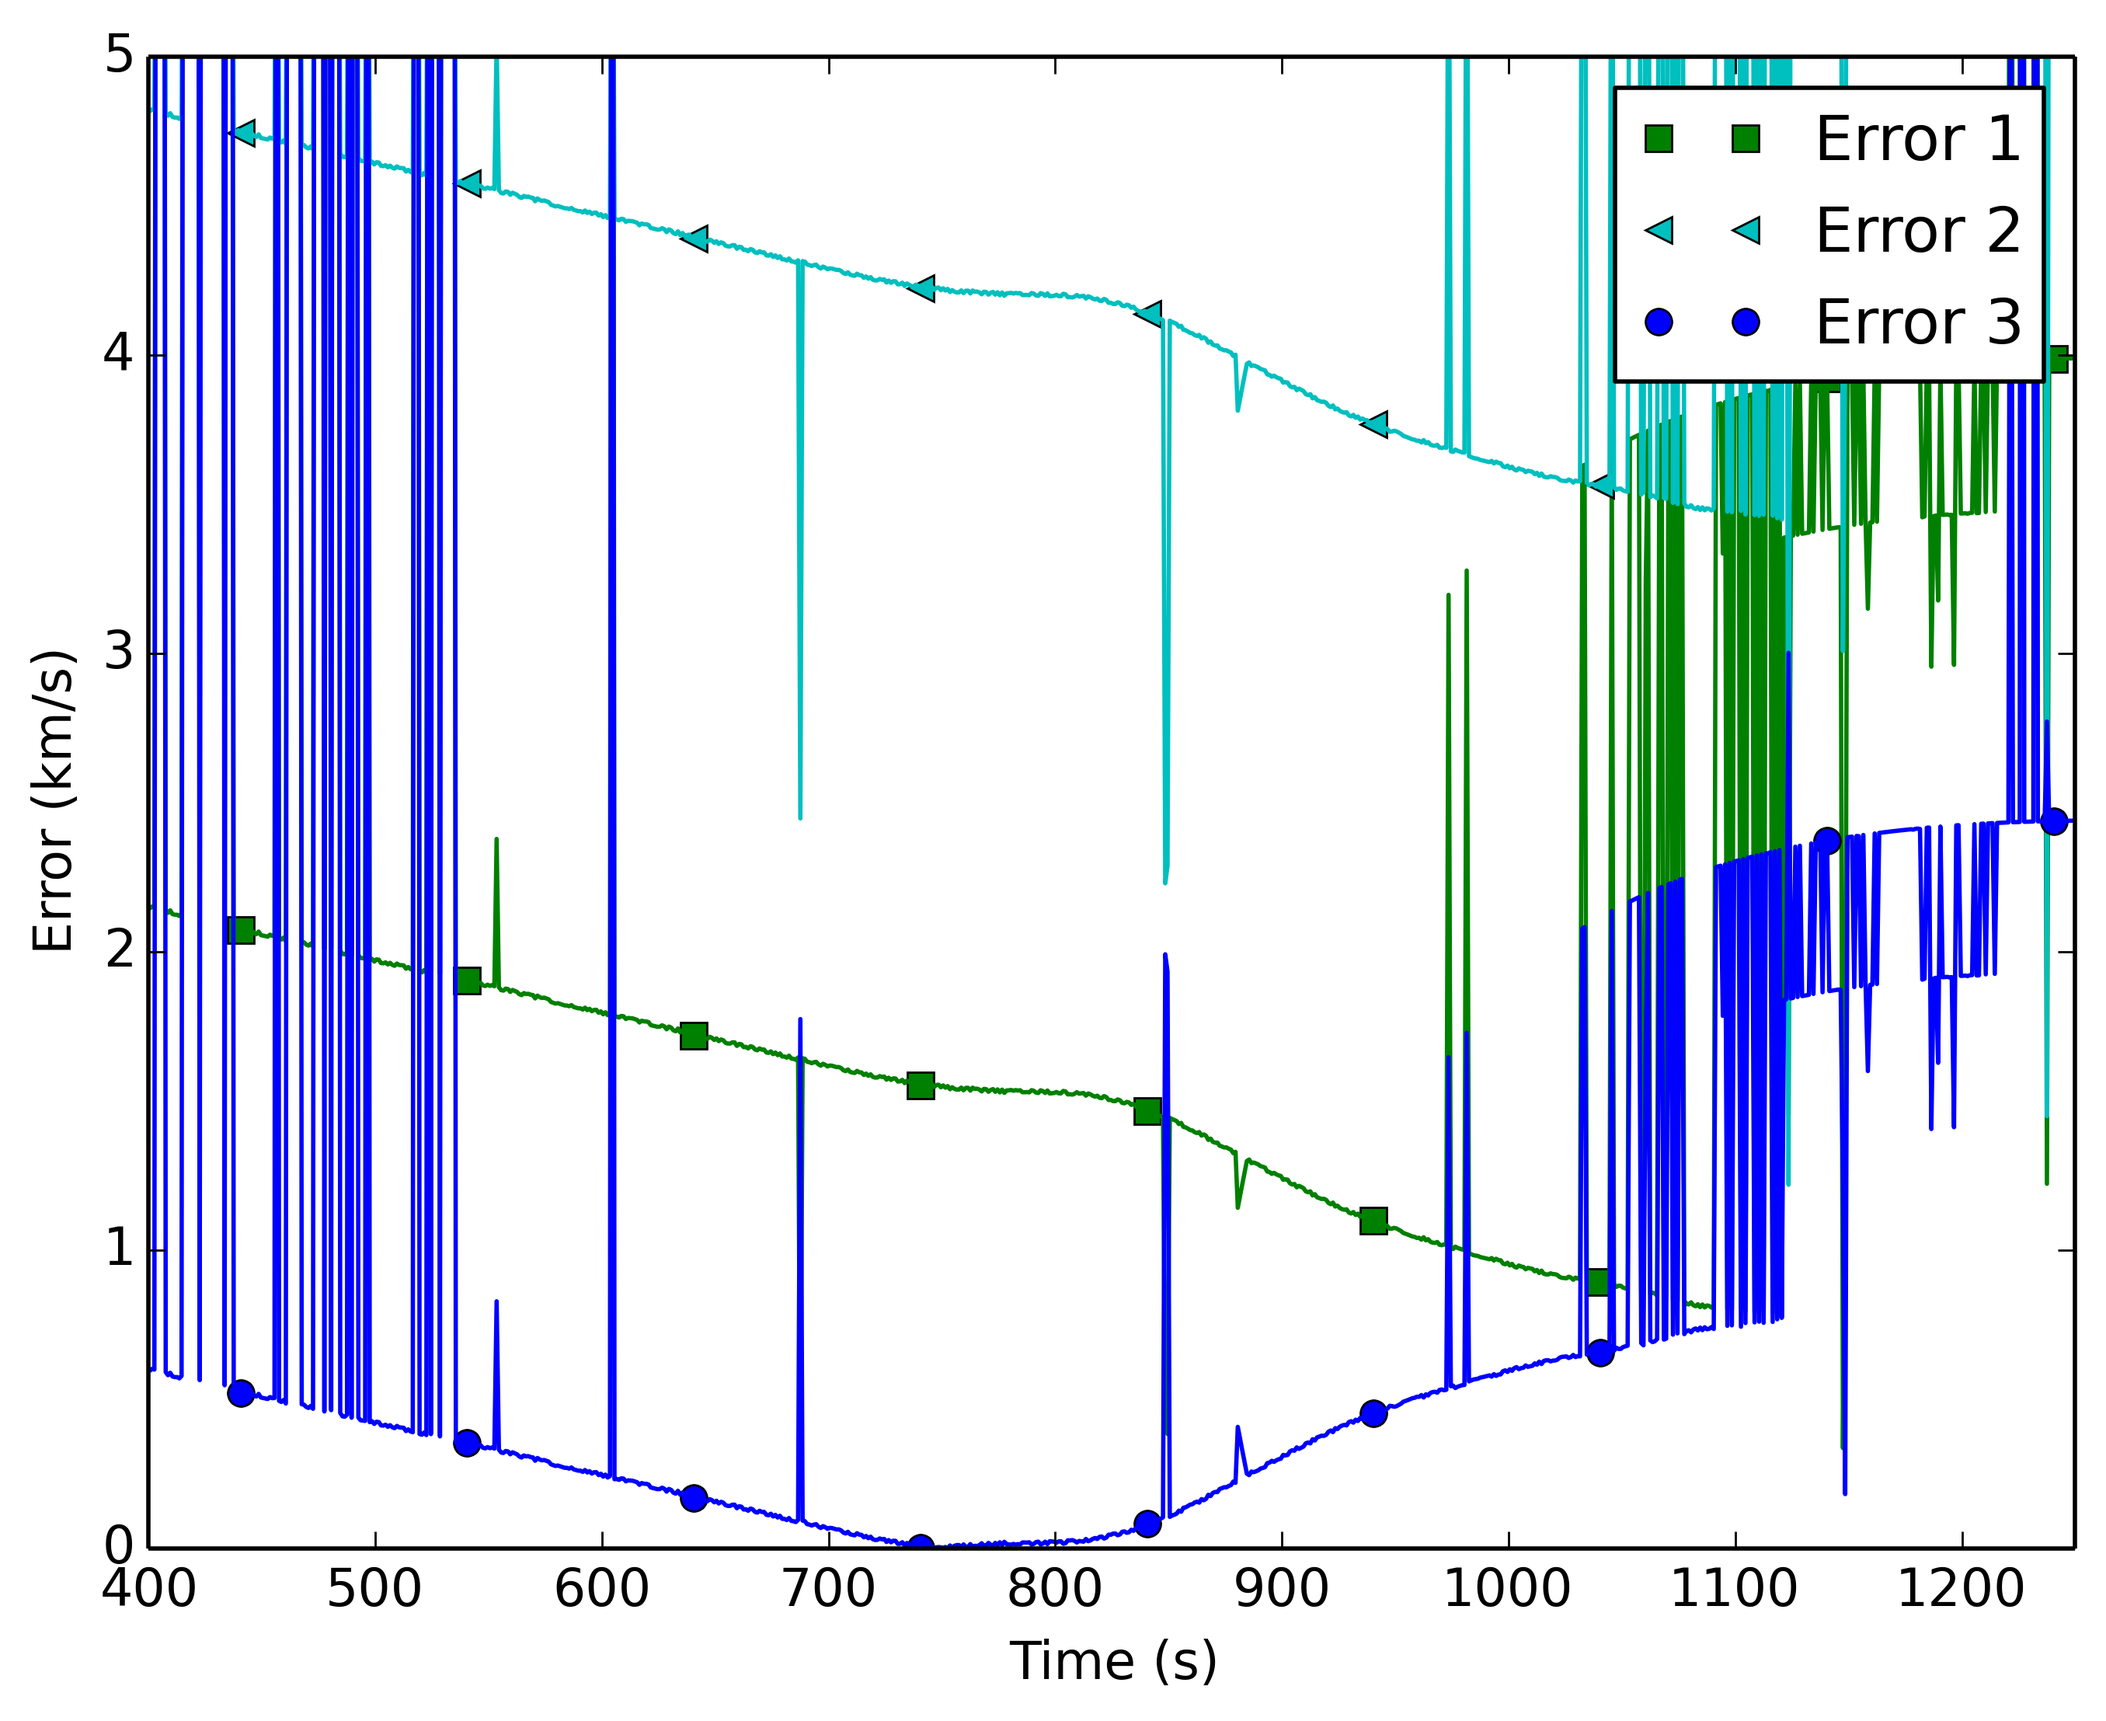
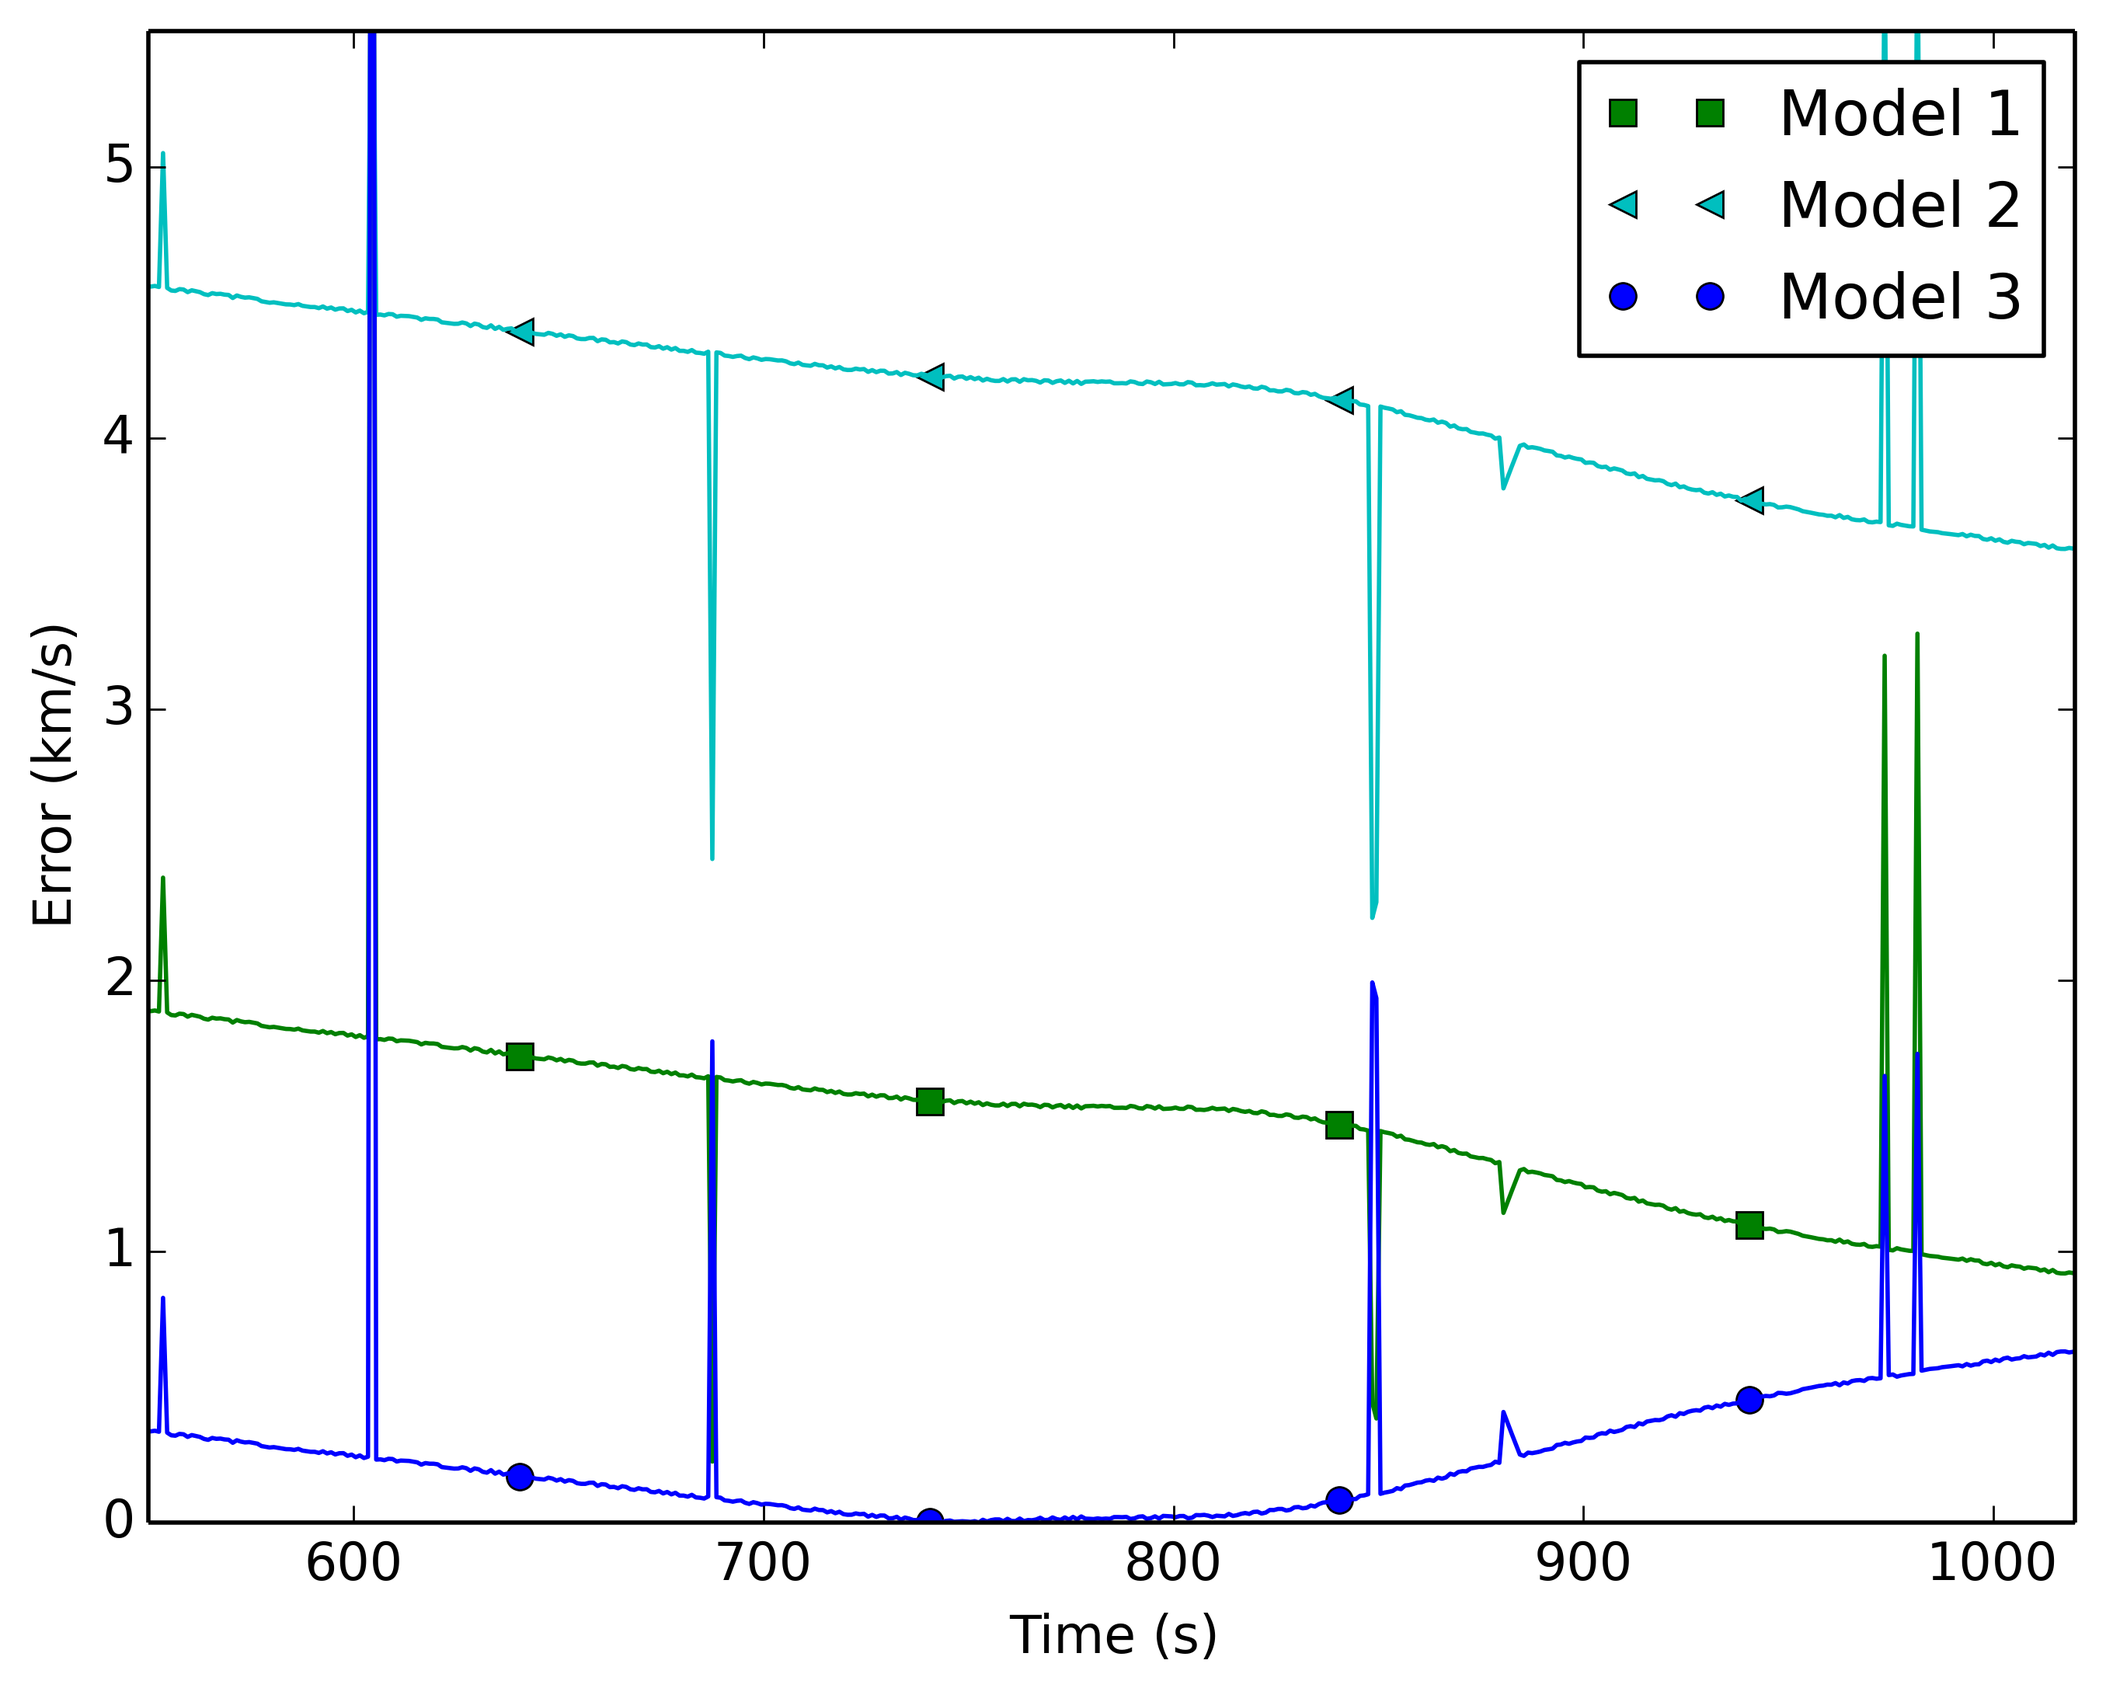
plots changed, rangeRateClass de-duplicated

Changed region(s): [[0.0, 0.0, 0.9915, 0.9349], [0.4338, 0.2181, 0.4958, 0.2493]]

diff --git a/rangeRateClass.py b/rangeRateClass.py
@@ -9,24 +9,10 @@ from tlerangerate import compare,tlerangerate,errorCount
 
 class rangeRate:
 
-
-    def __init__(self, wavFileName, start, end, intervalWidth, intervalStartFrequency, carrierfrequency,listeningfrequency, satelliteVelocity):
-		self.wavFileName = wavFileName
-		self.start = start
-		self.end = end
-		self.intervalWidth = intervalWidth
-		self.intervalStartFrequency = intervalStartFrequency
-		self.carrierfrequency = carrierfrequency
-                self.listeningfrequency = listeningfrequency
-		self.cutOff = 3.0*satelliteVelocity/(3e8)*self.carrierfrequency
-
-		self.wavReader = wavReaderFourierTransformer(self.wavFileName, self.start, self.end, self.intervalWidth, self.intervalStartFrequency, self.cutOff)
-		self.lowfrequency = self.carrierfrequency - self.wavReader.getMaxFourierFrequency()
-
     def doCalculations(self):
-		self.wavReaderCalc()
-		self.maxFrequencyCalc()
-		self.dopplerTrackingCalc()
+        self.wavReaderCalc()
+        self.maxFrequencyCalc()
+        self.dopplerTrackingCalc()
 
     def dopplerTracking(self, maxFrequency, wavReader):
            freq = []
@@ -66,7 +52,6 @@ class rangeRate:
            newrangerate = rangerateconvert(timefreq,newValue)
            self.newtimedeltav2 = [time,newrangerate]
            return timefreq
-           
 
     def __init__(self, wavFileName, start, end, intervalWidth, intervalStartFrequency, carrierfrequency,listeningfrequency, satelliteVelocity):
         self.wavFileName = wavFileName
@@ -81,13 +66,8 @@ class rangeRate:
         self.wavReader = wavReaderFourierTransformer(self.wavFileName, self.start, self.end, self.intervalWidth, self.intervalStartFrequency, self.cutOff)
         self.lowfrequency = self.carrierfrequency - self.wavReader.getMaxFourierFrequency()
 
-    def doCalculations(self):
-        self.wavReaderCalc()
-        self.maxFrequencyCalc()
-        self.dopplerTrackingCalc()
-
-
     def dopplerTracking(self, maxFrequency, wavReader):
+        print("Deze pakt hij")
         freq = []
         for maxfreq in maxFrequency:
             freq.append(maxfreq)    
@@ -149,8 +129,12 @@ class rangeRate:
         for i in range(1,len(ylist)):                      
             dy = (ylist[i]-ylist[i-1])
             slope.append(dy/dx) 
-        lwall = int(divmod(600,dx)[0])
-        rwall = int(divmod(1000,dx)[0])
+        lwall = int(divmod(700,dx)[0])
+        rwall = int(divmod(850,dx)[0])
+        print(np.size(time[1:]))
+        print(np.size(slope))
+        plt.plot(time[1:], slope)
+        plt.show()
         minslope = min(slope[lwall:rwall])
         minslopeindex = slope.index(minslope)
         minslopetime = (minslopeindex*dx)
@@ -182,4 +166,5 @@ if __name__ == "__main__":
     rr = init()
     rr.doCalculations()
     # rr.plot2DWaterfallplotWithMaxFrequencies(mode="save")
-    rr.plotComparison(mode="save")
+    # rr.plotComparison(mode="save")
+    # rr.plotComparison(mode="disp")

diff --git a/tlerangerate.py b/tlerangerate.py
@@ -211,12 +211,12 @@ def compare(exprangerate,newtimedeltav,tletimedeltav, mode="disp"):
     
     plt.xlabel("Time (s)")
     plt.ylabel("Range-Rate (km/s)")
-    plt.xlim(400,1250)
+    plt.xlim(400,1200)
+    plt.ylim(-11, 15)
     plt.legend()
     if mode == "save":
         plt.savefig("img/RangeRate-Time.png", bbox_inches='tight', dpi=400)
 
-    plt.close()
 
     error1temp = errorCount(exprangerate)
     error1 = [abs(error1temp[n]) for n in range(len(error1temp))]
@@ -229,7 +229,7 @@ def compare(exprangerate,newtimedeltav,tletimedeltav, mode="disp"):
     ax2 = fig2.add_subplot(111)
     
     check=exprangerate[0][0]
-    ax2.plot(exprangerate[0][0],error1[0],'gs',label='Error 1')
+    ax2.plot(exprangerate[0][0],error1[0],'gs',label='Model 1')
     for i in range(len(exprangerate[0])):
         if check<=exprangerate[0][i]:
             ax2.plot(exprangerate[0][i],error1[i],'gs')
@@ -237,7 +237,7 @@ def compare(exprangerate,newtimedeltav,tletimedeltav, mode="disp"):
     ax2.plot(exprangerate[0],error1,'g')
     
     check=newtimedeltav[0][0]
-    ax2.plot(newtimedeltav[0][0],error2[0],'c<',label='Error 2')
+    ax2.plot(newtimedeltav[0][0],error2[0],'c<',label='Model 2')
     for i in range(len(newtimedeltav[0])):
         if check<=newtimedeltav[0][i]:
             ax2.plot(newtimedeltav[0][i],error2[i],'c<')
@@ -245,7 +245,7 @@ def compare(exprangerate,newtimedeltav,tletimedeltav, mode="disp"):
     ax2.plot(newtimedeltav[0],error2,'c')
     
     check=tletimedeltav[0][0]
-    ax2.plot(tletimedeltav[0][0],error3[0],'bo',label='Error 3')
+    ax2.plot(tletimedeltav[0][0],error3[0],'bo',label='Model 3')
     for i in range(len(tletimedeltav[0])):
         if check<=tletimedeltav[0][i]:
             ax2.plot(tletimedeltav[0][i],error3[i],'bo')
@@ -254,8 +254,8 @@ def compare(exprangerate,newtimedeltav,tletimedeltav, mode="disp"):
     
     plt.xlabel("Time (s)")
     plt.ylabel("Error (km/s)")
-    plt.xlim(400,1250)
-    plt.ylim(0,5)
+    plt.xlim(550,1020)
+    plt.ylim(0,5.5)
     plt.legend()
 
     if mode == "disp":
